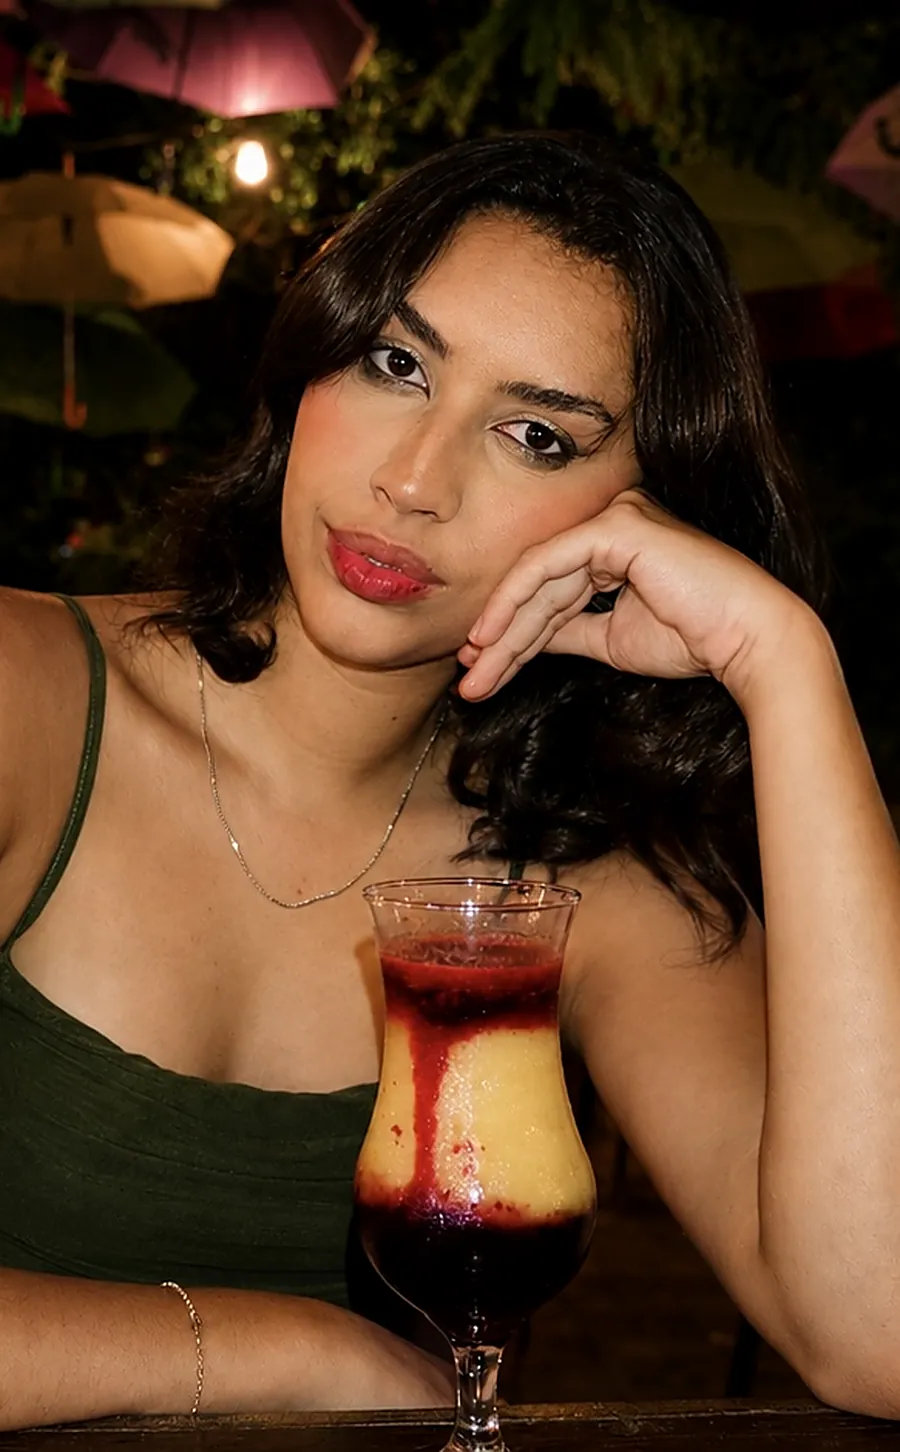
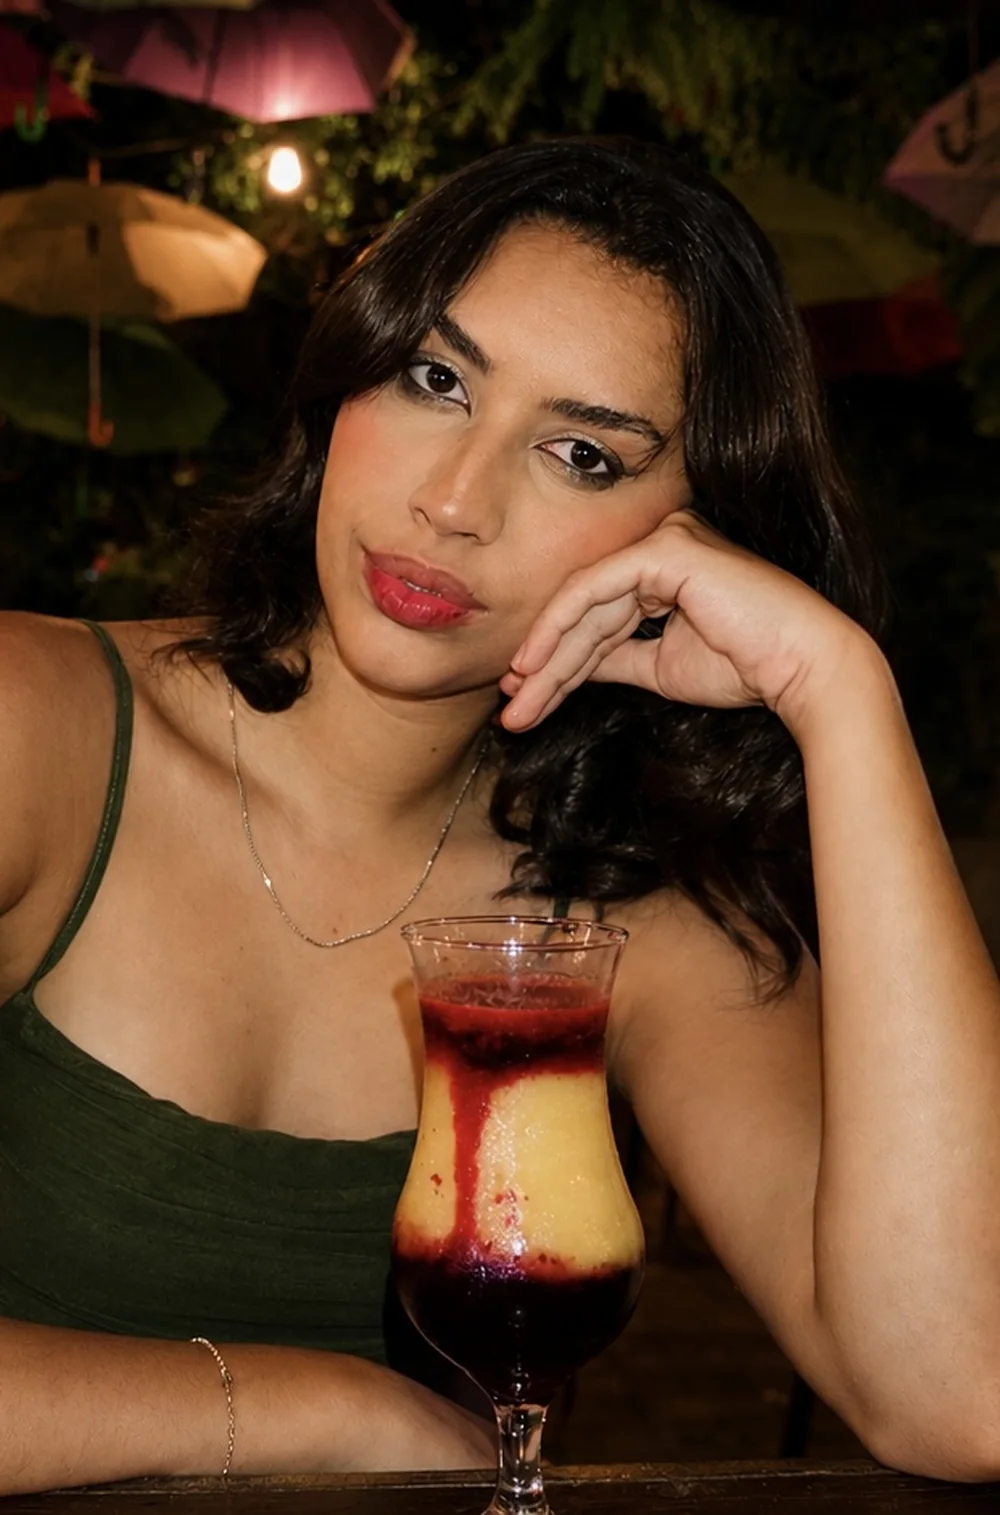
Capa sem degradê, player limpo, Entrega no lugar de Serviços
Foto inteira na capa com a luz atrás do texto retocada, seções mais
baixas para caber numa tela, case Bombado com título junto e player de
vídeo sem a interface do YouTube.

Claude-Session: https://claude.ai/code/session_01A54AKhirpisiy84ELcc8y1

diff --git a/index.html b/index.html
@@ -235,8 +235,16 @@
     .mais-videos { display: flex; justify-content: center; margin-top: 40px; }
     .mais-videos .botao[hidden] { display: none; }
     .card-video-player { position: relative; width: min(92vw, calc((100vh - 120px) * 9 / 16), 420px); }
-    .moldura-video { aspect-ratio: 9 / 16; background: var(--preto); border-radius: var(--raio-g); overflow: hidden; }
-    .moldura-video iframe { width: 100%; height: 100%; border: 0; display: block; }
+    .moldura-video { position: relative; aspect-ratio: 9 / 16; background: var(--preto); border-radius: var(--raio-g); overflow: hidden; }
+    .moldura-video iframe { position: absolute; left: 0; top: -60px; width: 100%; height: calc(100% + 120px); border: 0; display: block; pointer-events: none; }
+    .moldura-video video { position: absolute; inset: 0; width: 100%; height: 100%; object-fit: cover; }
+    .toque-video { position: absolute; inset: 0; z-index: 2; width: 100%; border: 0; background: transparent; cursor: pointer; }
+    .toque-video .icone-pausa { position: absolute; top: 50%; left: 50%; width: 72px; height: 72px; margin: -36px 0 0 -36px; border-radius: 50%; background: rgba(232, 220, 201, .92); display: grid; place-items: center; opacity: 0; transition: opacity .25s ease; }
+    .toque-video .icone-pausa svg { width: 22px; height: 22px; margin-left: 4px; fill: var(--bordo); }
+    .moldura-video.pausado .icone-pausa { opacity: 1; }
+    .moldura-video.pausado iframe { filter: brightness(.7); }
+    .botao-som { position: absolute; z-index: 3; left: 12px; bottom: 12px; padding: 8px 14px; border-radius: 999px; border: 1px solid rgba(232, 220, 201, .5); background: rgba(17, 13, 10, .55); color: var(--bege); font: 600 .78rem/1 var(--sans); letter-spacing: .06em; cursor: pointer; }
+    .case-video { border: 0; padding: 0; background: none; cursor: pointer; width: 100%; text-align: left; }
     .card-video-player .fechar { top: -52px; right: 0; background: var(--bege); }
     .link-youtube { display: block; text-align: center; margin-top: 14px; color: var(--bege); font-size: .9rem; }
     .trabalho .info { display: flex; flex-direction: column; gap: 2px; margin-top: 12px; }
@@ -530,14 +538,11 @@
 
     /* ============ CAPA EM FOTO INTEIRA ============ */
     .capa { position: relative; isolation: isolate; overflow: hidden; display: flex; flex-direction: column; min-height: 100vh; min-height: 100svh; padding: var(--topo) 0 0; }
-    .capa::before {
-      content: ""; position: absolute; inset: 0; z-index: 1; pointer-events: none;
-      background:
-        linear-gradient(90deg, rgba(77, 5, 16, .97) 0%, rgba(77, 5, 16, .9) 30%, rgba(77, 5, 16, .45) 50%, rgba(77, 5, 16, 0) 68%),
-        linear-gradient(0deg, rgba(17, 13, 10, .55) 0%, rgba(17, 13, 10, 0) 28%);
-    }
-    .capa-fundo { position: absolute; top: 0; bottom: 0; left: 26%; right: 0; z-index: 0; }
-    .capa-fundo img { width: 100%; height: 100%; object-fit: cover; object-position: 60% 30%; -webkit-mask-image: linear-gradient(90deg, transparent 0, #000 28%); mask-image: linear-gradient(90deg, transparent 0, #000 28%); }
+    .capa-fundo { position: absolute; inset: 0; z-index: 0; }
+    .capa-fundo img { width: 100%; height: 100%; object-fit: cover; object-position: 100% 35%; }
+    /* Sem degradê: a leitura vem do fundo escuro da foto e de uma sombra suave nas letras */
+    .capa-texto { text-shadow: 0 1px 2px rgba(17, 13, 10, .6), 0 0 26px rgba(17, 13, 10, .55); }
+    .capa-texto .botao, .capa-texto .numeros-capa { text-shadow: none; }
     .capa-conteudo { position: relative; z-index: 2; flex: 1; display: flex; align-items: center; padding-top: clamp(20px, 4vh, 48px); padding-bottom: clamp(20px, 4vh, 48px); }
     .capa-texto { max-width: 620px; }
     .capa .rotulo { margin-bottom: 14px; }
@@ -552,17 +557,44 @@
     .capa .numeros-capa strong { font-size: clamp(1.5rem, 2.4vw, 2rem); }
     .capa .numeros-capa span { font-size: .78rem; }
     .capa .selo-circular { left: auto; right: var(--gutter); bottom: clamp(20px, 4vh, 44px); width: clamp(96px, 9vw, 126px); }
-    .capa .faixa-marcas { position: relative; z-index: 2; margin-top: 0; padding: 14px 0; background: rgba(77, 5, 16, .78); -webkit-backdrop-filter: blur(8px); backdrop-filter: blur(8px); }
+    .capa .faixa-marcas { position: relative; z-index: 2; margin-top: 0; padding: 14px 0; background: var(--bordo); }
 
     /* ============ RITMO MAIS COMPACTO ============ */
-    section { padding: clamp(56px, 7vw, 100px) 0; }
+    section { padding: clamp(44px, 5.5vw, 80px) 0; }
     .cabeca-secao { margin-bottom: clamp(28px, 4vw, 48px); }
     .titulo-secao { font-size: clamp(2.1rem, 4.4vw, 3.5rem); }
     .rotulo { margin-bottom: 14px; }
     .metricas, .resultados, .fotos-grade { margin-bottom: clamp(44px, 6vw, 72px); }
     .etapas { margin-bottom: clamp(40px, 6vw, 64px); }
     .trabalho .midia { aspect-ratio: 3 / 4; }
-    .case { grid-template-columns: minmax(0, 320px) 1fr; }
+    .case { grid-template-columns: minmax(0, 300px) 1fr; }
+    .destaques .titulo-secao { margin-bottom: 14px; }
+    .destaques .case-marca { margin-bottom: 14px; }
+    .destaques .case-numeros { margin: 18px 0; gap: 8px; }
+    .destaques .titulo-secao { font-size: clamp(2rem, 3.6vw, 3rem); }
+    .destaques .case-texto > p { font-size: .98rem; margin-bottom: 0; }
+    .destaques .case-numeros div { padding: 12px 16px !important; }
+    .destaques .case-numeros dd { font-size: clamp(1.4rem, 2.2vw, 1.9rem); }
+    .destaques .case-conclusao { padding: 14px 18px; }
+
+    /* Sobre mim numa tela só */
+    .sobre-grade { grid-template-columns: minmax(0, .72fr) 1.28fr; gap: clamp(32px, 5vw, 72px); }
+    .sobre-texto h2 { font-size: clamp(2rem, 3.4vw, 2.8rem); }
+    .sobre-texto p { max-width: 66ch; font-size: 1rem; margin-bottom: .8em; }
+    .sobre-foto { min-height: 340px; }
+    .promessas { display: grid; grid-template-columns: repeat(3, 1fr); gap: 0 18px; margin: 20px 0 18px; }
+    .promessas li { grid-template-columns: 1fr; gap: 4px; padding: 14px 0; border-bottom: 0; }
+    .promessas span { font-size: .93rem; line-height: 1.45; }
+    .assinatura { font-size: 1.6rem; }
+
+    /* Pacotes e fotos mais baixos */
+    .pacote { padding: clamp(22px, 2.6vw, 32px); }
+    .pacote ul { margin-bottom: 20px; }
+    .pacote ul li { padding: 9px 0 9px 22px; font-size: .92rem; }
+    .pacote ul li::before { top: 17px; }
+    .pacote .para-quem { margin-bottom: 14px; }
+    .fotos-grade .midia { aspect-ratio: 1 / 1; }
+    .metricas li { padding-top: 22px; }
     .sobre-foto { min-height: 380px; }
     .sobre-texto h2 { margin-bottom: 20px; }
     .promessas { margin: 26px 0; }
@@ -616,6 +648,8 @@
       body { font-size: 1rem; }
       .selo-circular { left: auto; right: -6px; bottom: 24px; width: 96px; }
       .pasta-drive { grid-template-columns: 1fr; }
+      .promessas { grid-template-columns: 1fr; }
+      .promessas li { grid-template-columns: 44px 1fr; border-bottom: 1px solid var(--linha); }
       .galeria { grid-template-columns: repeat(2, 1fr); gap: 14px; }
       .trabalho h3 { font-size: 1.05rem; }
       .trabalho .play { width: 46px; height: 46px; }
@@ -659,16 +693,16 @@
     /* Capa no celular: foto em cima, texto embaixo sobre o bordô */
     @media (max-width: 760px) {
       .capa { min-height: 0; }
-      .capa::before { background: linear-gradient(180deg, rgba(77, 5, 16, 0) 0%, rgba(77, 5, 16, 0) 34%, rgba(77, 5, 16, .85) 52%, var(--bordo) 64%); }
-      .capa-fundo { left: 0; bottom: auto; height: 70svh; min-height: 440px; }
-      .capa-fundo img { object-position: 50% 18%; -webkit-mask-image: none; mask-image: none; }
-      .capa-conteudo { align-items: flex-end; padding-top: max(300px, 44svh); padding-bottom: 32px; }
+      .capa-fundo { position: relative; inset: auto; display: block; height: 62svh; min-height: 400px; }
+      .capa-fundo img { object-position: 50% 22%; }
+      .capa-conteudo { align-items: flex-start; padding-top: 28px; padding-bottom: 32px; }
+      .capa-texto { text-shadow: none; }
       .capa .acoes .botao { flex: 1 1 0; padding: 15px 12px; }
       .capa .numeros-capa { display: grid; grid-template-columns: repeat(3, 1fr); gap: 8px; }
       .capa .numeros-capa div, .capa .numeros-capa div + div { padding: 10px 12px; }
       .capa .numeros-capa strong { font-size: 1.4rem; }
       .capa .numeros-capa span { font-size: .7rem; }
-      .capa .selo-circular { top: 16px; bottom: auto; right: var(--gutter); width: 84px; }
+      .capa .selo-circular { top: -48px; bottom: auto; right: var(--gutter); width: 88px; }
     }
   </style>
 </head>
@@ -687,7 +721,7 @@
           <li><a href="#sobre">Sobre</a></li>
           <li><a href="#destaques">Destaques</a></li>
           <li><a href="#trabalhos">Trabalhos</a></li>
-          <li><a href="#servicos">Serviços</a></li>
+          <li><a href="#entrega">Entrega</a></li>
           <li><a href="#pacotes">Pacotes</a></li>
           <li><a href="#numeros">Números</a></li>
           <li><a href="#contato">Contato</a></li>
@@ -704,7 +738,7 @@
            Para trocar, substitua esses dois arquivos (mantenha os mesmos nomes). -->
       <picture class="capa-fundo">
         <source media="(max-width: 760px)" srcset="fotos/capa-celular.webp">
-        <img src="fotos/capa-larga.webp" alt="Yasmin Caetano à noite em um restaurante com jardim, com um drink de frutas vermelhas na mesa" width="2200" height="1238" fetchpriority="high">
+        <img src="fotos/capa-larga.webp" alt="Yasmin Caetano à noite em um restaurante com jardim, com um drink de frutas vermelhas na mesa" width="2200" height="1437" fetchpriority="high">
       </picture>
 
       <div class="container capa-conteudo">
@@ -781,29 +815,20 @@
     <!-- ============ 3. CONTEÚDO DE DESTAQUE (case Bombado) ============ -->
     <section class="destaques" id="destaques" aria-labelledby="titulo-destaques">
       <div class="container">
-        <div class="cabeca-secao revelar">
-          <div>
-            <p class="rotulo">Conteúdo de destaque</p>
-            <h2 class="titulo-secao" id="titulo-destaques">Por trás de um vídeo que <em>performou</em>.</h2>
-          </div>
-          <p class="apoio">Um case real, com os números do tráfego pago, pra você ver o que um roteiro bem pensado entrega.</p>
-        </div>
-
         <div class="case">
-          <!-- LINK DO VÍDEO: está no href abaixo (reel do Bombado no Instagram).
-               CAPA DO VÍDEO: apague o <span class="legenda-midia"> e coloque dentro do div.midia:
-               <img src="capas/bombado.jpg" alt="Capa do vídeo feito para o Bombado"> (formato vertical 9:16) -->
-          <a class="card-video case-video revelar" href="https://www.instagram.com/reel/DcM0mfYTfIs/" target="_blank" rel="noopener" aria-label="Assistir ao vídeo feito para o Bombado (abre em nova aba)">
-            <div class="midia g1">
+          <!-- O vídeo do destaque é configurado em VIDEO_DESTAQUE, no começo do script -->
+          <button type="button" class="card-video case-video revelar" id="abreDestaque" aria-label="Assistir ao vídeo feito para o Bombado">
+            <div class="midia g1" id="capaDestaque">
               <span class="play" aria-hidden="true"><svg viewBox="0 0 24 24"><path d="M6 4l14 8-14 8z"/></svg></span>
-              <span class="legenda-midia">capa do vídeo 9:16</span>
+              <span class="legenda-midia">vídeo Bombado 9:16</span>
             </div>
-          </a>
+          </button>
 
           <div class="case-texto revelar">
+            <p class="rotulo">Conteúdo de destaque</p>
+            <h2 class="titulo-secao" id="titulo-destaques">Por trás de um vídeo que <em>performou</em>.</h2>
             <p class="case-marca">Bombado · Gastronomia · Tráfego pago</p>
-            <h3>Uma experiência gastronômica que virou <em>alcance</em>, interação e crescimento.</h3>
-            <p>O vídeo foi produzido para o Bombado, explorando o ambiente, a comida e a experiência de forma espontânea e envolvente. A marca usou o conteúdo no tráfego pago, e ele gerou muito mais do que visualizações: gerou novas conexões com a marca.</p>
+            <p>Uma experiência gastronômica que virou alcance, interação e crescimento. O vídeo foi produzido para o Bombado, explorando o ambiente, a comida e a experiência de forma espontânea e envolvente. A marca usou o conteúdo no tráfego pago, e ele gerou muito mais do que visualizações: gerou novas conexões com a marca.</p>
 
             <!-- Números do case. Para mudar, edite só o texto dentro de <dd> (número) e <dt> (rótulo). -->
             <dl class="case-numeros">
@@ -839,17 +864,20 @@
       </div>
     </section>
 
-    <!-- ============ 5. COMO EU TE AJUDO ============ -->
-    <section class="servicos" id="servicos" aria-labelledby="titulo-servicos">
+    <!-- ============ ENTREGA: o caminho depois do sim ============ -->
+    <section class="entrega" id="entrega" aria-labelledby="titulo-entrega">
       <div class="container">
         <div class="cabeca-secao revelar">
           <div>
-            <p class="rotulo">Como eu te ajudo</p>
-            <h2 class="titulo-secao" id="titulo-servicos">Do roteiro ao <em>anúncio</em> pronto.</h2>
+            <p class="rotulo">Entrega</p>
+            <h2 class="titulo-secao" id="titulo-entrega">O caminho de uma campanha <em>depois do sim</em>.</h2>
           </div>
-          <p class="apoio">Formatos pensados pra campanha, pra anúncio e pra presença constante da sua marca.</p>
+          <p class="apoio">Um processo fixo, pra você saber exatamente o que acontece em cada etapa e o que recebe no final.</p>
         </div>
-        <ul class="servicos-grade" id="listaServicos"></ul>
+        <!-- As etapas e os itens da pasta vêm dos arrays "etapas" e "pastaDrive" no script -->
+        <ol class="etapas revelar" id="listaEtapas"></ol>
+        <p class="subrotulo revelar">Na pasta do Drive vai</p>
+        <ul class="pasta-drive" id="listaPasta"></ul>
       </div>
     </section>
 
@@ -871,23 +899,6 @@
         <p class="pacotes-nota revelar">Pacotes fechados pra facilitar sua decisão. Nichos ou exclusividade sob medida? Só chamar.</p>
         <!-- Os pacotes vêm do array "pacotes" no script -->
         <ul class="pacotes-grade" id="listaPacotes"></ul>
-      </div>
-    </section>
-
-    <!-- ============ ENTREGA: o caminho depois do sim ============ -->
-    <section class="entrega" id="entrega" aria-labelledby="titulo-entrega">
-      <div class="container">
-        <div class="cabeca-secao revelar">
-          <div>
-            <p class="rotulo">Entrega</p>
-            <h2 class="titulo-secao" id="titulo-entrega">O caminho de uma campanha <em>depois do sim</em>.</h2>
-          </div>
-          <p class="apoio">Um processo fixo, pra você saber exatamente o que acontece em cada etapa e o que recebe no final.</p>
-        </div>
-        <!-- As etapas e os itens da pasta vêm dos arrays "etapas" e "pastaDrive" no script -->
-        <ol class="etapas revelar" id="listaEtapas"></ol>
-        <p class="subrotulo revelar">Na pasta do Drive vai</p>
-        <ul class="pasta-drive" id="listaPasta"></ul>
       </div>
     </section>
 
@@ -993,7 +1004,6 @@
     <div class="card-video-player" role="dialog" aria-modal="true" aria-label="Vídeo">
       <button class="fechar" id="fecharVideo" type="button" aria-label="Fechar vídeo">×</button>
       <div class="moldura-video" id="molduraVideo"></div>
-      <a class="link-youtube" id="linkYoutube" href="#" target="_blank" rel="noopener">Abrir no YouTube</a>
     </div>
   </div>
 
@@ -1112,18 +1122,14 @@
       { id: "o6m2-1l1U0w", nicho: "tecnologia", sub: "", marca: "", formato: "" }
     ];
 
+    // Vídeo do destaque (case Bombado). Preencha UM dos dois:
+    // youtube: o código do vídeo no YouTube (o que vem depois de "shorts/" no link)
+    // arquivo: o caminho do vídeo enviado pro GitHub, ex: "videos/bombado.mp4"
+    // Enquanto os dois estiverem vazios, o card abre o reel no Instagram.
+    const VIDEO_DESTAQUE = { youtube: "", arquivo: "", capa: "", instagram: "https://www.instagram.com/reel/DcM0mfYTfIs/" };
+
     // Quantos vídeos aparecem antes do botão "Ver mais vídeos"
     const VIDEOS_POR_VEZ = 12;
-
-    // Serviços da seção "Como eu te ajudo".
-    const servicos = [
-      { titulo: "Vídeo UGC", descricao: "Storytelling para vídeo curto, com roteiro estratégico, ganchos visuais e falados nos primeiros segundos e estética cinematográfica." },
-      { titulo: "Corte para anúncio", descricao: "Versões do mesmo vídeo com ganchos diferentes, pensadas para desejo e conversão no tráfego pago." },
-      { titulo: "Fotos do produto", descricao: "Direção criativa com luz natural, close e textura, na estética da sua marca, para site, catálogo e redes sociais." },
-      { titulo: "Unboxing", descricao: "A experiência de abrir o produto contada com detalhe, expectativa e reação verdadeira." },
-      { titulo: "Publicação no meu perfil", descricao: "O conteúdo vai ao ar no meu Instagram, em parceria com a sua marca, para o meu público." },
-      { titulo: "Pacote mensal", descricao: "Uma quantidade fixa de vídeos por mês, com calendário combinado e prioridade na agenda." }
-    ];
 
     // Métricas com contador animado.
     // valor: o número final (ex: 120). Deixe null enquanto não tiver o número real: aparece "00".
@@ -1303,22 +1309,87 @@
     // Player do vídeo na própria página
     const fundoVideo = document.getElementById("fundoVideo");
     const molduraVideo = document.getElementById("molduraVideo");
-    const linkYoutube = document.getElementById("linkYoutube");
     let focoAntesVideo = null;
-    function abreVideo(id) {
-      focoAntesVideo = document.activeElement;
-      molduraVideo.innerHTML = `<iframe src="https://www.youtube-nocookie.com/embed/${encodeURIComponent(id)}?autoplay=1&rel=0&playsinline=1&modestbranding=1" title="Vídeo da Yasmin Caetano" allow="autoplay; encrypted-media; picture-in-picture; fullscreen" allowfullscreen></iframe>`;
-      linkYoutube.href = `https://www.youtube.com/shorts/${encodeURIComponent(id)}`;
+    // Player limpo: o YouTube fica escondido por baixo, e os toques passam pelos nossos botões.
+    // A altura extra do iframe é cortada pela moldura, escondendo o título do YouTube.
+    const toqueCelular = window.matchMedia("(pointer: coarse)").matches;
+    const player = { tipo: "", el: null, tocando: false, mudo: false };
+    function comando(func) {
+      if (player.tipo === "yt" && player.el && player.el.contentWindow) {
+        player.el.contentWindow.postMessage(JSON.stringify({ event: "command", func, args: [] }), "*");
+      } else if (player.tipo === "arquivo" && player.el) {
+        if (func === "playVideo") player.el.play().catch(() => {});
+        if (func === "pauseVideo") player.el.pause();
+        if (func === "mute") player.el.muted = true;
+        if (func === "unMute") player.el.muted = false;
+      }
+    }
+    function controles() {
+      return `<button type="button" class="toque-video" id="toqueVideo" aria-label="Pausar o vídeo"><span class="icone-pausa" aria-hidden="true"><svg viewBox="0 0 24 24"><path d="M6 4l14 8-14 8z"/></svg></span></button>
+        <button type="button" class="botao-som" id="botaoSom" aria-label="${player.mudo ? "Ativar som" : "Tirar som"}">${player.mudo ? "Ativar som" : "Tirar som"}</button>`;
+    }
+    function ligaControles() {
+      const toque = document.getElementById("toqueVideo");
+      const som = document.getElementById("botaoSom");
+      toque.addEventListener("click", () => {
+        player.tocando = !player.tocando;
+        comando(player.tocando ? "playVideo" : "pauseVideo");
+        molduraVideo.classList.toggle("pausado", !player.tocando);
+        toque.setAttribute("aria-label", player.tocando ? "Pausar o vídeo" : "Continuar o vídeo");
+      });
+      som.addEventListener("click", () => {
+        player.mudo = !player.mudo;
+        comando(player.mudo ? "mute" : "unMute");
+        som.textContent = player.mudo ? "Ativar som" : "Tirar som";
+        som.setAttribute("aria-label", som.textContent);
+      });
+    }
+    function mostraPlayer() {
+      molduraVideo.classList.remove("pausado");
       fundoVideo.classList.add("aberto");
       fundoVideo.setAttribute("aria-hidden", "false");
+      ligaControles();
       document.getElementById("fecharVideo").focus();
+    }
+    function abreVideo(id) {
+      focoAntesVideo = document.activeElement;
+      Object.assign(player, { tipo: "yt", tocando: true, mudo: toqueCelular });
+      const cod = encodeURIComponent(id);
+      const origem = location.protocol.startsWith("http") ? `&origin=${encodeURIComponent(location.origin)}` : "";
+      molduraVideo.innerHTML = `<iframe src="https://www.youtube-nocookie.com/embed/${cod}?autoplay=1&mute=${player.mudo ? 1 : 0}&controls=0&rel=0&playsinline=1&iv_load_policy=3&disablekb=1&fs=0&loop=1&playlist=${cod}&enablejsapi=1${origem}" title="Vídeo da Yasmin Caetano" allow="autoplay; encrypted-media; picture-in-picture" tabindex="-1"></iframe>` + controles();
+      player.el = molduraVideo.querySelector("iframe");
+      mostraPlayer();
+    }
+    function abreArquivo(src) {
+      focoAntesVideo = document.activeElement;
+      Object.assign(player, { tipo: "arquivo", tocando: true, mudo: false });
+      molduraVideo.innerHTML = `<video src="${esc(src)}" autoplay playsinline loop></video>` + controles();
+      player.el = molduraVideo.querySelector("video");
+      player.el.play().catch(() => { player.mudo = true; player.el.muted = true; player.el.play().catch(() => {}); const som = document.getElementById("botaoSom"); if (som) som.textContent = "Ativar som"; });
+      mostraPlayer();
     }
     function fechaVideo() {
       fundoVideo.classList.remove("aberto");
       fundoVideo.setAttribute("aria-hidden", "true");
       molduraVideo.innerHTML = "";
+      Object.assign(player, { tipo: "", el: null });
       if (focoAntesVideo && focoAntesVideo.focus) focoAntesVideo.focus();
     }
+
+    // Vídeo do destaque (Bombado)
+    const capaDestaque = document.getElementById("capaDestaque");
+    if (VIDEO_DESTAQUE.youtube) {
+      capaDestaque.insertAdjacentHTML("afterbegin", `<img src="https://i.ytimg.com/vi/${esc(VIDEO_DESTAQUE.youtube)}/oardefault.jpg" alt="" onerror="if(this.dataset.f){this.remove()}else{this.dataset.f=1;this.src='https://i.ytimg.com/vi/${esc(VIDEO_DESTAQUE.youtube)}/hqdefault.jpg'}">`);
+      capaDestaque.querySelector(".legenda-midia").remove();
+    } else if (VIDEO_DESTAQUE.capa) {
+      capaDestaque.insertAdjacentHTML("afterbegin", `<img src="${esc(VIDEO_DESTAQUE.capa)}" alt="">`);
+      capaDestaque.querySelector(".legenda-midia").remove();
+    }
+    document.getElementById("abreDestaque").addEventListener("click", () => {
+      if (VIDEO_DESTAQUE.youtube) abreVideo(VIDEO_DESTAQUE.youtube);
+      else if (VIDEO_DESTAQUE.arquivo) abreArquivo(VIDEO_DESTAQUE.arquivo);
+      else window.open(VIDEO_DESTAQUE.instagram, "_blank", "noopener");
+    });
     const videoAberto = () => fundoVideo.classList.contains("aberto");
     galeria.addEventListener("click", e => {
       const ir = e.target.closest(".ver-grupo");
@@ -1332,11 +1403,6 @@
     });
     document.getElementById("fecharVideo").addEventListener("click", fechaVideo);
     fundoVideo.addEventListener("click", e => { if (e.target === fundoVideo) fechaVideo(); });
-
-    // Serviços
-    document.getElementById("listaServicos").innerHTML = servicos.map((s, i) =>
-      `<li class="servico revelar"><span class="num">${String(i + 1).padStart(2, "0")}</span><h3>${esc(s.titulo)}</h3><p>${esc(s.descricao)}</p></li>`
-    ).join("");
 
     // Métricas
     document.getElementById("listaMetricas").innerHTML = metricas.map(m =>
